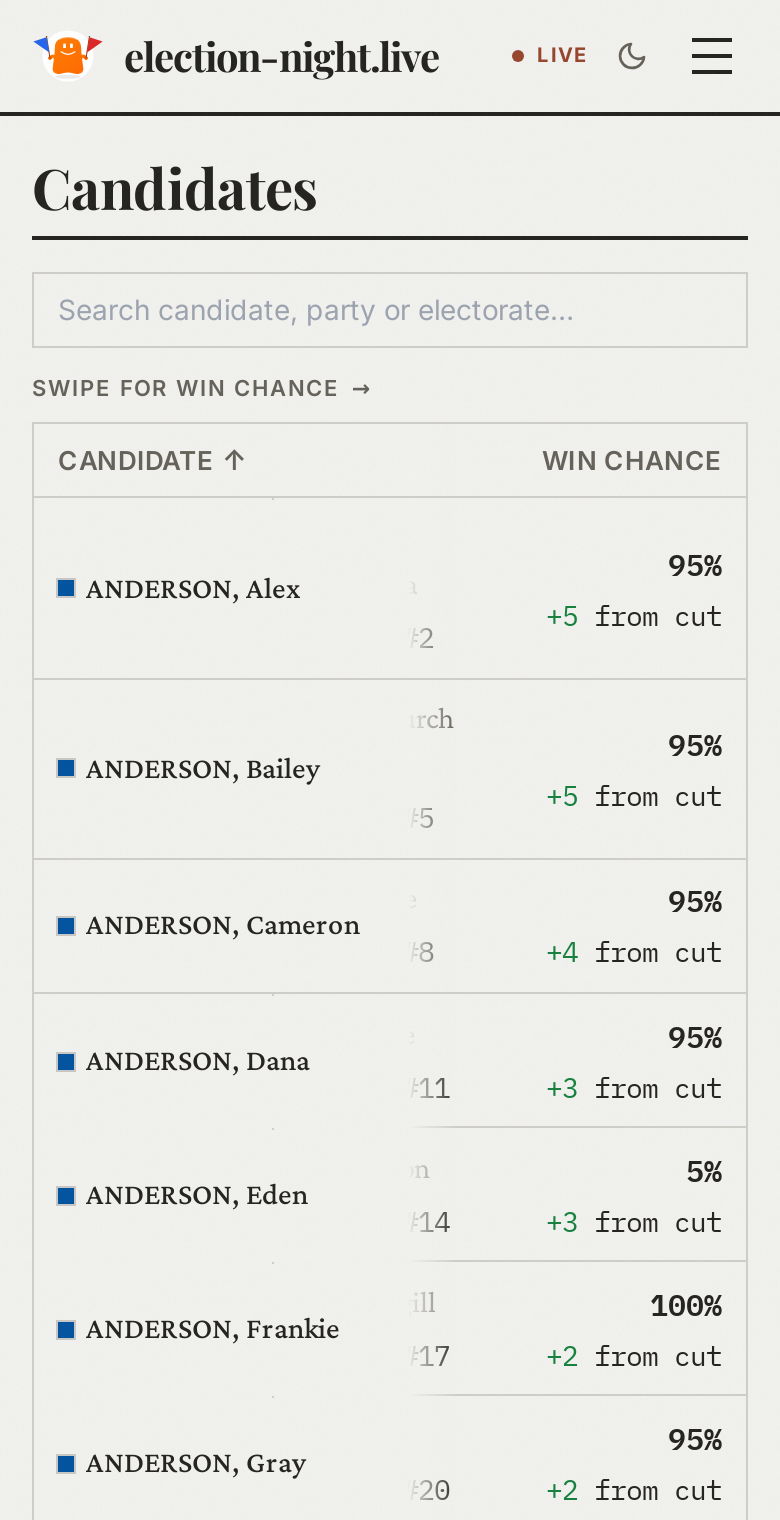
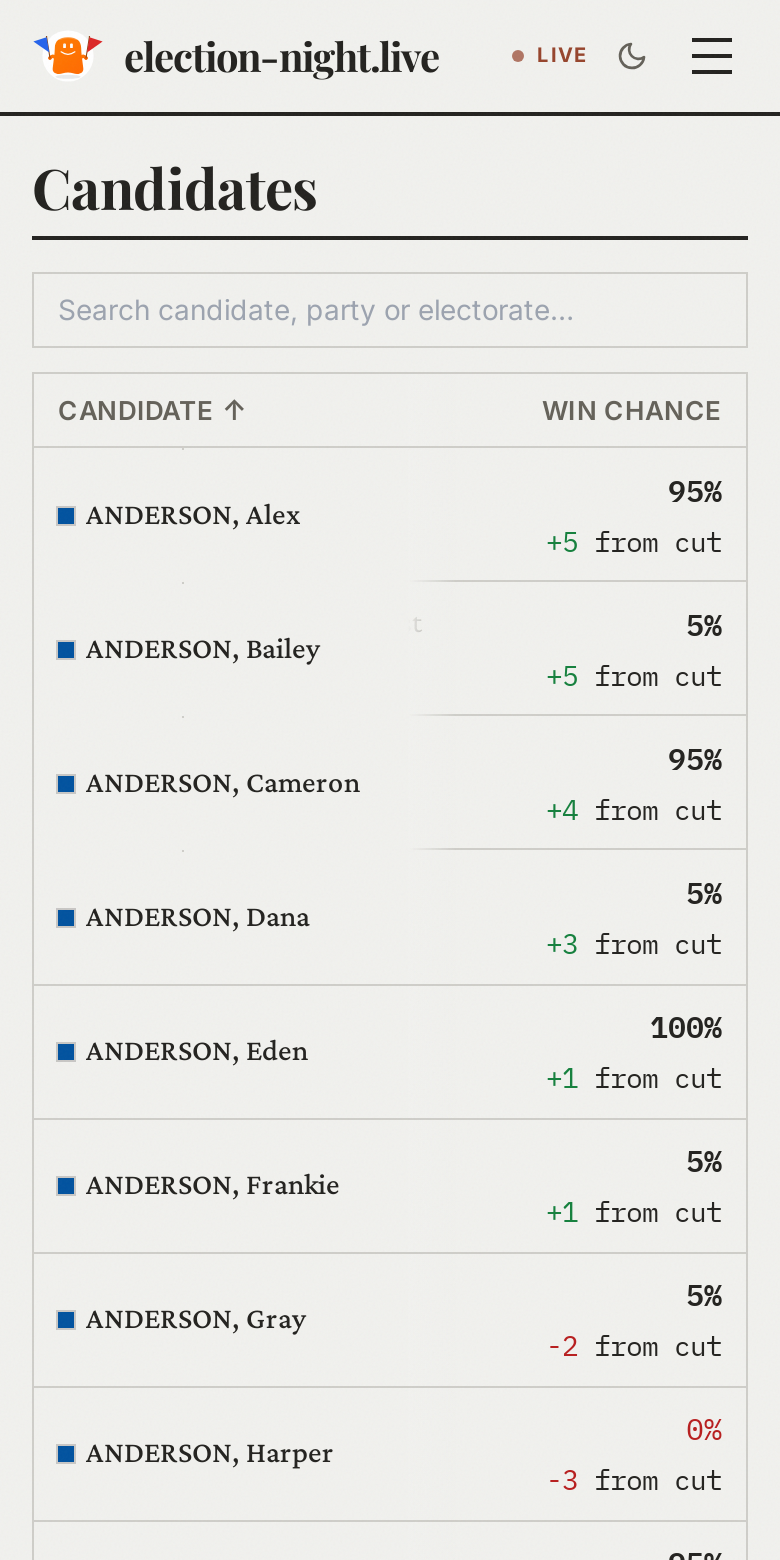
feat(dashboard): drop the swipe caption, keep seat names on one line
Review changes on the phone table:

- the `Swipe for Win chance →` line above the table is gone. The cut column
  under the right-edge fade is the cue; a caption that has to be read before
  the table is read is the worse trade. A test pins that it stays gone.
- seat names no longer wrap below sm (`whitespace-nowrap`, reset at sm). The
  table is wider than the frame, so it can grow instead of breaking
  "Christchurch Central" across two lines; the column goes from 117px to 162px
  and the scroll from 68px to 113px at 390px.
- both captures re-shot against the mock feed with the new table.

diff --git a/packages/dashboard/src/pages/Candidates.tsx b/packages/dashboard/src/pages/Candidates.tsx
@@ -278,13 +278,9 @@ function AllCandidates({
           className="w-full px-3 py-2 sm:py-1.5 border bg-background text-sm font-label outline-none focus:ring-2 focus:ring-ring/25 transition-shadow"
         />
       </div>
-      {/* The phone's cue for the sideways scroll. A table that scrolls is only
-          discoverable if something says so, and the fade alone is invisible on
-          a paper ground until a column is under it. Hidden from `sm` up, where
-          all four columns fit. */}
-      <p className="kicker mb-2 flex items-center gap-1.5 sm:hidden">
-        Swipe for Win chance <span aria-hidden="true">→</span>
-      </p>
+      {/* No line above the table telling the reader to swipe: the fade over the
+          cut column is the cue, and a caption that has to be read before the
+          table is read is a worse trade than a column that looks cut off. */}
       <div className="relative">
         <div ref={scrollRef} className={cn('overflow-x-auto', TABLE_FRAME)}>
           <table className={cn('w-full', TABLE_TEXT)}>
@@ -352,7 +348,13 @@ function AllCandidates({
                         <span>{c.party || 'Independent'}</span>
                       </div>
                     </td>
-                    <td className="py-2 sm:py-3 px-3">
+                    {/* Seat names do not wrap on the phone either: the column is
+                        already narrower than a name like "Christchurch Central",
+                        and a wrapped one is what made the row read as a paragraph
+                        rather than as a route. The table is wider than the frame
+                        below `sm` for exactly this reason — it scrolls, so a name
+                        does not have to break. Desktop keeps the cell as it was. */}
+                    <td className="whitespace-nowrap py-2 px-3 sm:whitespace-normal sm:py-3">
                       {/* Two lines, in step with the Win chance column: the seat
                         on the first and the list on the second, so a seat name
                         lines up with the chance and a List chip with the

diff --git a/packages/dashboard/src/pages/Candidates.test.tsx b/packages/dashboard/src/pages/Candidates.test.tsx
@@ -263,11 +263,12 @@ describe('Candidates page', () => {
     expect(chip.parentElement).toHaveClass('hidden', 'sm:inline');
   });
 
-  test('cues the swipe and fades the edge only while there is more to reach', () => {
+  test('fades the edge only while there is more to reach', () => {
     renderCandidates();
 
-    const cue = screen.getByText(/Swipe for Win chance/);
-    expect(cue).toHaveClass('sm:hidden');
+    // No caption above the table telling the reader to swipe: the fade over the
+    // cut column is the cue, and the line was removed on review.
+    expect(screen.queryByText(/Swipe/)).toBeNull();
 
     const scroller = screen.getByRole('table').closest('div') as HTMLElement;
     const fade = () =>

diff --git a/AGENTS.md b/AGENTS.md
@@ -93,7 +93,7 @@ npm run fmt           # prettier --write .
 - `packages/dashboard/src/components/WinPercentDrawer.tsx` + `WinPercentContent.tsx` + `WinPercentLink.tsx` + `WinPercentFigures.tsx` — the Win % explainer, a **drawer** (`role="dialog"`, right edge, 760px, full width on phones, `animate-slide-in-right`) rather than a route: the question is asked at a table, so the reader keeps the table and the count behind it does not move. One `WinPercentProvider` in `App` owns the open state, so the seat panel, Close Calls and Flipped all open the same drawer from their `Win %` header (the one cell that belongs to the column rather than to a candidate, since those rows are already click targets); the trigger is the label with a dotted rule in its own ink, and it gets focus back on close. The label restates `uppercase` because Tailwind's preflight sets `text-transform: none` on buttons, which otherwise left this one table heading in mixed case while `TH_CLASS` uppercased every heading beside it. Candidates prints the same number as **Win chance** and carries no trigger of its own. Esc, the close button and the backdrop all close it, and the body scroll locks while it is open; there is no route and no nav entry.
   The content is a **fixed worked example, never live data** (12 → 2, 54/46, 393 against 9,700 specials, 66), and every figure is tagged `Example` on the drawing itself rather than the drawer carrying one caveat at the top: the generic entry is a table header with dozens of seats behind it, so there is no single seat whose counts could be used, and a reader who has scrolled to the third step has long passed a notice above the introduction (a boxed notice and then fine print on the first section's rule were both tried and removed on review). A reader who wants the method applied to real counts opens an electorate, where the same numbers are computed from its own votes. Each step is a heading, then its figure, then the prose that explains it, so on a phone the drawing follows the heading before anything is read and on a wide panel it takes a third column level with the prose. The electorate is never named for the same reason. It explains the method as two inputs (votes left, who the remaining votes will favour) and four steps (the expected result, the width of the spread, the share of the spread either side of a tie, then the special votes), with every figure drawn in `WinPercentFigures.tsx` from the same vocabulary as the count band. Copy rules: **no em-dashes**, `tie` never "level", `electorate` never "seat", no claim that the model simulates, and no footer naming the model file. The special-vote spread is a prior checked against measurement (`docs/seat-probability-model.md` §4), which is why the drawer says "about three times the swing a typical seat showed" (median absolute swing 3.13 points across 213 seats). `WinPercentDrawer.test.tsx` pins open/close, the Example chip on all six figures, the heading-then-figure order, the six steps, the numbers, the absence of em-dashes and the focus returning to the header.
 - `packages/dashboard/src/pages/CloseCalls.tsx` + `packages/dashboard/src/lib/routes.ts` — `/close-calls`: Close Calls as a page of its own, the close races and the party list cut lines behind one toggle. `lib/routes.ts` writes the path once (`CLOSE_CALLS_PATH`), so the menu entry and the route cannot drift; the page owns its chances through `useSeatChances`, computed from the same call Seats and the map make, rather than being handed them by another page. The heading is the ordinary `PageHead`, with the toggle beside it, so it reads as the page it is. The List Cut Lines view no longer cycles parties on a timer — it changed the table under a reader who was in the middle of reading it — so the party chips are the only thing that moves the selection.
-- `packages/dashboard/src/pages/Candidates.tsx` — `/candidates`: every candidate in the election, one row per person — every electorate's whole field (not only its leader) plus every name on every party list. It is the old "Likely Parliamentarians" table on Seats with its filters removed, so it keeps that table's **four columns and route chips**: Candidate, Party, Seat, **Win chance** (the column was called Certainty). The Seat cell carries both routes where both exist, because the live feed puts every candidate on a list as well as in a seat (530 of 530 in the 2026 ballot): the `Electorate` chip with a link to the seat, and the `List` chip linked to the party with the candidate's list rank beside it (`#40`), **on separate lines** so the two columns stay in step — the electorate on the first line beside the chance, the List chip and rank on the second beside the distance from the cut. A route the candidate does not have is **omitted, not dashed**: a list-only candidate has no seat line and no chance beside it (no `—`, no `0%`), and a seat-only candidate has no list line, so a row only ever shows routes that exist. The list distance is **not** in the Seat cell: it prints in the Win chance column as `+5 from cut` / `-9 from cut`, under the chance where the candidate is also one the model prices, exactly as that column read on the Seats page — the signed number green (`text-green-700 dark:text-green-400`) above the cut and red (`text-destructive`) below it, with the words `from cut` in normal ink; a number exactly on the cut stays uncoloured. A candidate the model does not price but who does stand in an electorate prints `0%` rather than a dash, in red, so the lines line up and the column stays a percentage. Below `sm` the table keeps all three live columns and **scrolls sideways** to reach Win chance rather than hiding it: the candidate column is pinned (`sticky left-0`, with the paper ground and a hairline so the Seat column passes under it, both reset at `sm` where nothing scrolls) so a reader who swipes right never loses whose number they are on, a `Swipe for Win chance →` line above the table says the column is there, and a right-edge fade is shown only while the table still has somewhere to go — measured on mount, on scroll and on resize, so it is gone at the end rather than dimming the column the reader has just reached — and once the table has moved the pinned column is raised with a shadow and a 24px fade bleeding over its right edge, so the Seat cell sliding under it reads as depth and not as text with its first letters cut off. The **Electorate** chip is hidden on the phone and the `List` chip is not: it is a route, and the seat's name is enough beside it. The chip's breakpoint lives on a wrapper because `.chip-print` sets `display: inline-flex` and is emitted after the generated utilities, so a `hidden` on the chip itself loses — costing the candidate column 69px and wrapping every name onto two lines. Nothing is folded into another cell: the distance is never folded into the Seat column on a phone. The shape was chosen from `docs/mockups/proposals/candidates-chance-mobile/sheet.html` (B, the pinned name); `docs/mockups/candidates-mobile-rest.png` and `-scrolled.png` are captures of it running. Showing only the seat would leave the page looking as though nobody were on a list; a second row would count one person twice. A candidate who is only on a list gets the List chip alone, and one who stands only in a seat gets the Electorate chip alone. There is no Votes column: the count belongs to the seat table, and a flat national column of vote numbers invited comparing seats of different sizes. Search matches name, party or electorate (the old search knew only name and electorate); Candidate and Party sort, Seat and Win chance do not — a chance column sorted on a projection would rank the ballot by a number most rows do not have. **Win chance** is the seat's chance of being held and nothing else: the same two candidates the seat panel prices, through `chanceByCandidate` in `ElectorateResultsTable.tsx`, so the page cannot quote a number the seat does not, and a list place is never printed as a probability. The page head is the title alone: the "Likely parliamentarians" kicker and the quiet "How we work out Win %" button were removed, so the Win % drawer is opened from Seats, Close Calls, Flipped, or a seat panel, not here. The row reveal stagger is capped at 24 rows, because an uncapped one would still be revealing rows a reader had long scrolled past.
+- `packages/dashboard/src/pages/Candidates.tsx` — `/candidates`: every candidate in the election, one row per person — every electorate's whole field (not only its leader) plus every name on every party list. It is the old "Likely Parliamentarians" table on Seats with its filters removed, so it keeps that table's **four columns and route chips**: Candidate, Party, Seat, **Win chance** (the column was called Certainty). The Seat cell carries both routes where both exist, because the live feed puts every candidate on a list as well as in a seat (530 of 530 in the 2026 ballot): the `Electorate` chip with a link to the seat, and the `List` chip linked to the party with the candidate's list rank beside it (`#40`), **on separate lines** so the two columns stay in step — the electorate on the first line beside the chance, the List chip and rank on the second beside the distance from the cut. A route the candidate does not have is **omitted, not dashed**: a list-only candidate has no seat line and no chance beside it (no `—`, no `0%`), and a seat-only candidate has no list line, so a row only ever shows routes that exist. The list distance is **not** in the Seat cell: it prints in the Win chance column as `+5 from cut` / `-9 from cut`, under the chance where the candidate is also one the model prices, exactly as that column read on the Seats page — the signed number green (`text-green-700 dark:text-green-400`) above the cut and red (`text-destructive`) below it, with the words `from cut` in normal ink; a number exactly on the cut stays uncoloured. A candidate the model does not price but who does stand in an electorate prints `0%` rather than a dash, in red, so the lines line up and the column stays a percentage. Below `sm` the table keeps all three live columns and **scrolls sideways** to reach Win chance rather than hiding it: the candidate column is pinned (`sticky left-0`, with the paper ground and a hairline so the Seat column passes under it, both reset at `sm` where nothing scrolls) so a reader who swipes right never loses whose number they are on, both the candidate's name and the seat's stay on one line below `sm` (`whitespace-nowrap`, reset at `sm`, so the table grows rather than the names wrapping), there is deliberately **no caption above the table telling the reader to swipe** (a line was tried and removed on review: it has to be read before the table is read, and the cut column says the same thing), and a right-edge fade is shown only while the table still has somewhere to go — measured on mount, on scroll and on resize, so it is gone at the end rather than dimming the column the reader has just reached — and once the table has moved the pinned column is raised with a shadow and a 24px fade bleeding over its right edge, so the Seat cell sliding under it reads as depth and not as text with its first letters cut off. The **Electorate** chip is hidden on the phone and the `List` chip is not: it is a route, and the seat's name is enough beside it. The chip's breakpoint lives on a wrapper because `.chip-print` sets `display: inline-flex` and is emitted after the generated utilities, so a `hidden` on the chip itself loses — costing the candidate column 69px and wrapping every name onto two lines. Nothing is folded into another cell: the distance is never folded into the Seat column on a phone. The shape was chosen from `docs/mockups/proposals/candidates-chance-mobile/sheet.html` (B, the pinned name); `docs/mockups/candidates-mobile-rest.png` and `-scrolled.png` are captures of it running. Showing only the seat would leave the page looking as though nobody were on a list; a second row would count one person twice. A candidate who is only on a list gets the List chip alone, and one who stands only in a seat gets the Electorate chip alone. There is no Votes column: the count belongs to the seat table, and a flat national column of vote numbers invited comparing seats of different sizes. Search matches name, party or electorate (the old search knew only name and electorate); Candidate and Party sort, Seat and Win chance do not — a chance column sorted on a projection would rank the ballot by a number most rows do not have. **Win chance** is the seat's chance of being held and nothing else: the same two candidates the seat panel prices, through `chanceByCandidate` in `ElectorateResultsTable.tsx`, so the page cannot quote a number the seat does not, and a list place is never printed as a probability. The page head is the title alone: the "Likely parliamentarians" kicker and the quiet "How we work out Win %" button were removed, so the Win % drawer is opened from Seats, Close Calls, Flipped, or a seat panel, not here. The row reveal stagger is capped at 24 rows, because an uncapped one would still be revealing rows a reader had long scrolled past.
 - `packages/dashboard/src/pages/Flipped.tsx` — `/flipped`: seats whose prior-cycle winner's party is not leading tonight, with the historical margin of victory beside the live lead and the chance the leader holds the seat (a finished count keeps that number rather than reading `Complete`: the ordinary count stopping is not the seat deciding, and the specials are still out — the same rule in Close Calls and in the Candidates page's Win chance column, which sorts on the same chance it prints), ordered by the current leader's share of the vote (not raw votes, so a big-city seat's larger margin does not outrank a smaller seat's bigger swing). Consumes `/api/history/prior-winners`, which arrives already matched to the current cycle (seats with no comparable prior holder are simply absent). Prior and current parties are compared through core's `canonicalParty`, not as strings, because the Commission renames a party between cycles: 2020's `Māori Party` is tonight's `Te Pāti Māori` (and its `p_no` moved, so the rename cannot be keyed on the number), and a string compare listed Waiariki as a flip while Rawiri Waititi still held it. Every year in the copy comes from the response's `primaryYear`, never a literal — `Flipped.test.tsx` asserts that. `packages/dashboard/src/components/PastWinners.tsx` renders the same data per electorate and deliberately makes no claim about the current count — `PastWinners.test.tsx` asserts that.
 - `packages/dashboard/src/components/MapControls.tsx` — the electorates map's own controls: seat search and the General/Māori switch, as a hairline row inside the map card and, once a seat is open, as a paper panel floating over the map's top right (the card in `Electorates.tsx` is `relative`, the controls `absolute`, both `z-[1100]`). The open panel is sized `w-[calc(100%_-_4rem)] max-w-[24rem]` and anchored right so it stops short of the top-left corner, which Leaflet's zoom buttons own — a full-width panel on a phone used to cover them. With a seat open the row folds the search field and the roll switch behind one `Search` button (a disclosure with `aria-expanded`): the open seat is the subject and the map is the point, so the field costs one click rather than a line. Opening a seat, choosing a name, pressing Escape in a closed search, clicking the button again, or clicking anywhere outside the panel folds it back. There is deliberately no Clear control: the Electorates nav entry, the browser's back button and picking another seat already return to the landing state, and a button that only existed in one state read as part of the search. Rendered by `packages/dashboard/src/pages/Electorates.tsx` as the card's first child, above `ElectorateMap`. Placement was decided in `docs/mockups/proposals/electorate-map-controls.html` (B everywhere, desktop and phone). Its `relative z-[1100]` is load-bearing, not decoration: the open search list has to clear the corners Leaflet stacks its zoom buttons in (`z-index: 1000`) and the map's panes (400) live in the same stacking context, so a lower value paints the list under the buttons or under the geometry.
 - `packages/dashboard/src/hooks/useVotingPlaces.ts` + `packages/dashboard/src/components/VotingPlaces.tsx` — the voting-place layer on the electorates map, shown once a seat is selected. `summarizePlaces` narrows the collector's answer to the places **standing in the electorate** and returns null when there are none, so `VotingPlacesLayer` plots one square per booth (filled = counted, outlined = not yet — the pair `VotingPlaceLegend` keys) and `VotingPlaceLedger` shows one measure, `counted / total` "in this electorate", with the newest receipt time. Advance hubs filed under this seat from another electorate, and the mobile teams, are deliberately neither drawn nor counted; the seven Māori seats have no in-seat place at all (`vp_e_no` never names a Māori electorate), so they show no pips, no card and no legend. The feed writes NZ wall-clock times, so `formatReceiptTime` prints `7:07pm` without converting time zones. The hook refreshes every 60s until every place has reported.

diff --git a/docs/mockups/README.md b/docs/mockups/README.md
@@ -63,9 +63,9 @@ replace the table with a one-line explanation. See
 `/candidates` at 390px (deviceScaleFactor 2), against the mock feed replaying
 2026, before and after the sideways scroll. Below `sm` the table keeps all three
 live columns — Candidate, Seat, Win chance — and scrolls to the last of them:
-the candidate column is pinned (`sticky left-0`, paper ground, hairline), a
-`Swipe for Win chance →` line sits above the table, and the right-edge fade is
-shown only while there is more to reach. The second capture is the end of the
+the candidate column is pinned (`sticky left-0`, paper ground, hairline), and
+the only cue that the table scrolls is the Win chance column sitting cut off
+under a right-edge fade, shown while there is more to reach. The second capture is the end of the
 scroll: the name is still in place, the chance and its distance from the cut are
 readable, the fade has gone, and the pinned column has been raised with a shadow
 and a 24px fade over its right edge so the Seat cell sliding under it reads as
